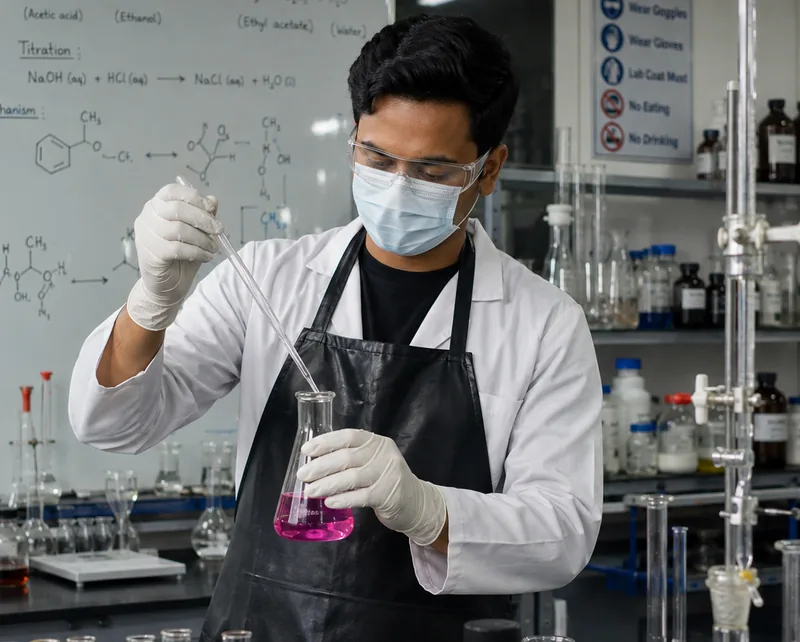
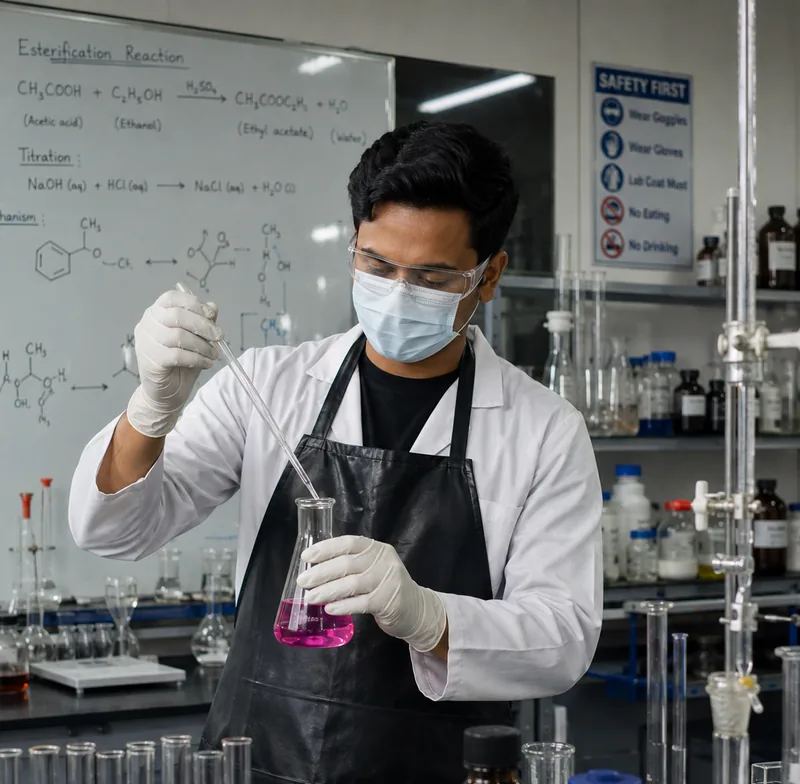
Engineering & Lab Practice card: zoom out and move photo down
Claude-Session: https://claude.ai/code/session_01SpfQjxz8aAX8XbxU4TPEtc

diff --git a/src/data/research.ts b/src/data/research.ts
@@ -12,7 +12,7 @@ export const researchAreasData: ResearchArea[] = [
     description: 'Env. chemistry, Water & Air analysis, Waste to bio-produce',
     imageUrl: activityImg1,
     // keep the full head in view on wide phone cards
-    imagePosition: 'center 20%',
+    imagePosition: 'center 36%',
     leadResearcher: 'Dr. Arisya Rahman',
     publicationsCount: 14,
     tags: ['Civic Tech', 'Social Enterprise', 'Leadership Development'],
